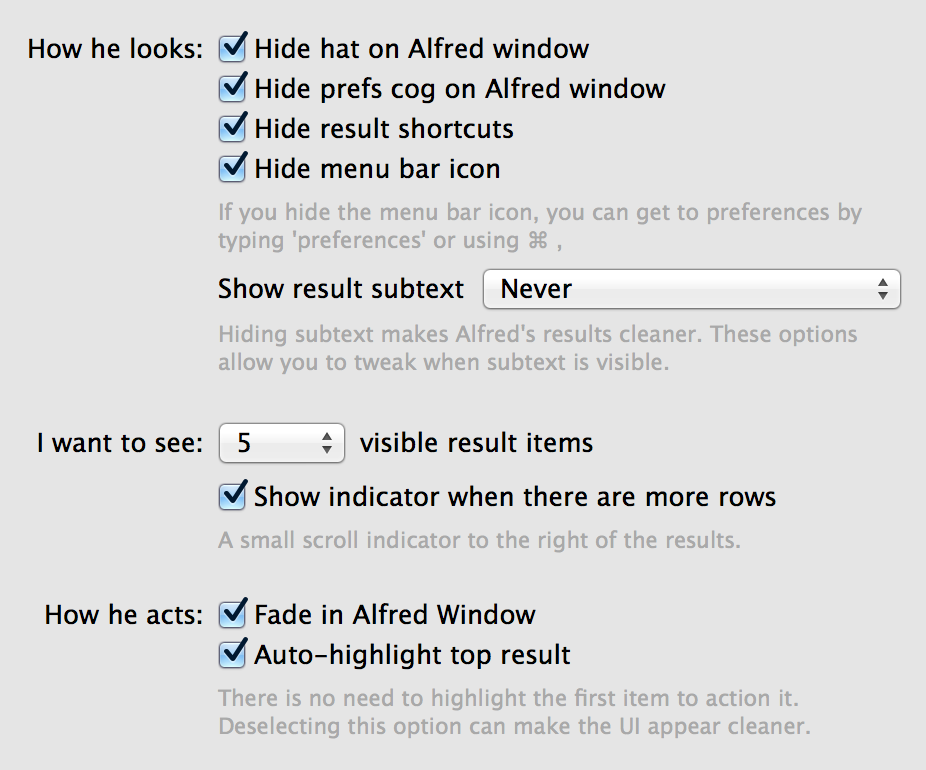
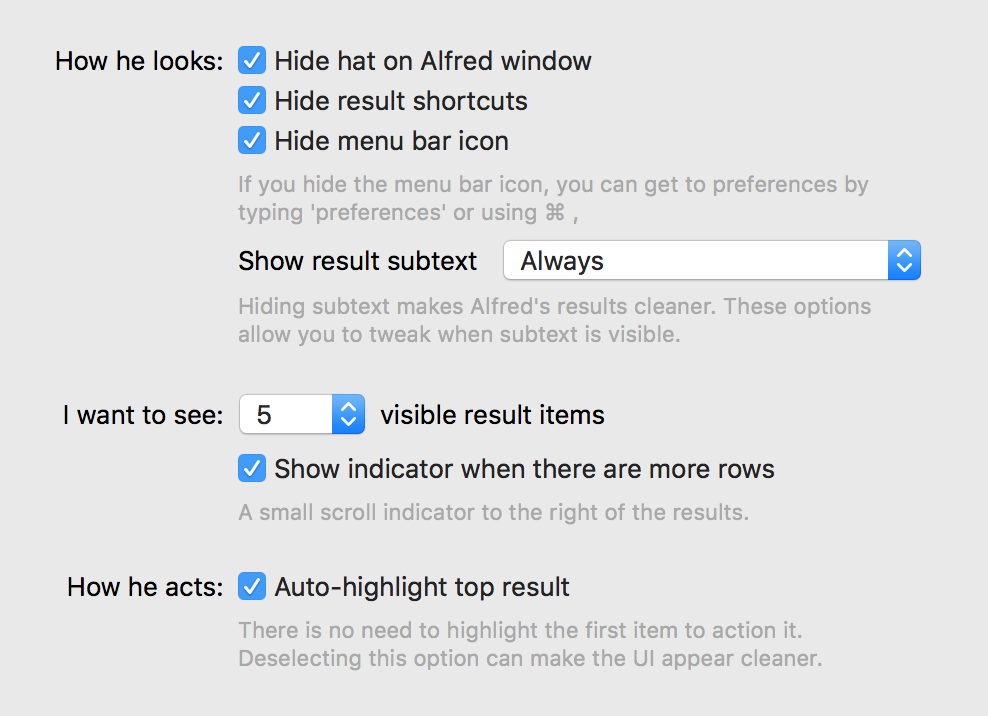
update screenshots

Changed region(s): [[0.0302, 0.0307, 0.9676, 0.4916], [0.0302, 0.5223, 0.8467, 0.7374], [0.0605, 0.7682, 0.8769, 0.9525]]

diff --git a/readme.md b/readme.md
@@ -2,7 +2,7 @@
 
 > Simple theme for [Alfred](https://www.alfredapp.com)
 
-![](screenshot.png)
+<img src="screenshot.jpg" width="823">
 
 
 ## Install
@@ -16,7 +16,12 @@
 
 Use the following options to have it look exactly like in the screenshot above.
 
-<img src="screenshot-options.png" width="463">
+<img src="screenshot-options.png" width="494">
+
+
+## Related
+
+- [alfred-npms](https://github.com/sindresorhus/alfred-npms)
 
 
 ## License
